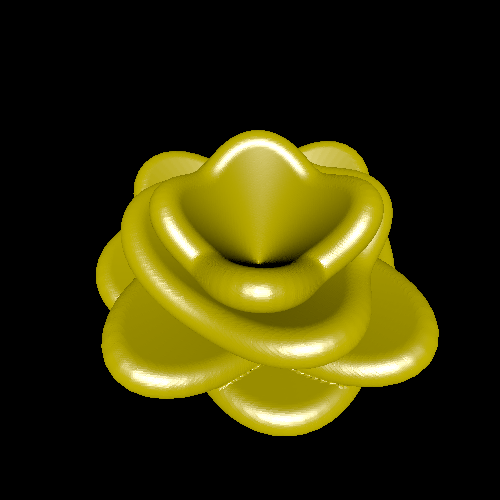
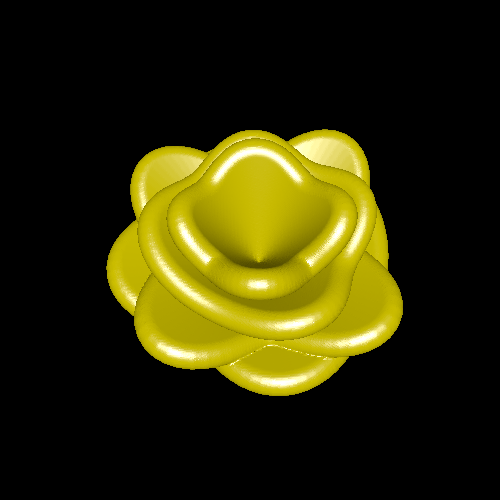
rose: fix rendering angle

Changed region(s): [[0.18, 0.24, 0.9, 0.87]]

diff --git a/examples/decoration/rose/main.go b/examples/decoration/rose/main.go
@@ -28,7 +28,7 @@ func main() {
 	m1.SaveGroupedSTL("rose.stl")
 
 	log.Println("Generating rendering...")
-	render3d.SaveRendering("rendering.png", m1, model3d.Coord3D{Y: -1, Z: 2}, 500, 500, nil)
+	render3d.SaveRendering("rendering.png", m1, model3d.Coord3D{Y: -2, Z: 4}, 500, 500, nil)
 }
 
 // RingFunction is one conic surface originating from the
